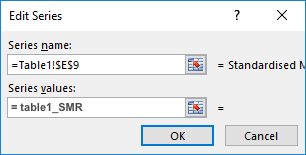
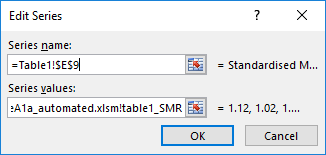
fix screenshot and typo for chart auto-update

diff --git a/docs/charts-auto-update.html b/docs/charts-auto-update.html
@@ -131,11 +131,11 @@
 </ol>
 <p><img src="images/chartau-03-newname.png" style="display: block; margin: auto;" />  </p>
 <ol start="4" style="list-style-type: decimal">
-<li>Name and add reference forumla. In this example, we’ve named it “ChartData” and the formula is <code>=OFFSET(Table1!$E$11, 0, 0, H5, 1)</code>.</li>
+<li>Name and add reference forumla. In this example, we’ve named it “table1_SMR” and the formula is <code>=OFFSET(Table1!$E$11, 0, 0, Sheet1!$B$1, 1)</code>.</li>
 </ol>
 <p><img src="images/chartau-04-createname.PNG" style="display: block; margin: auto;" />  </p>
 <ol start="5" style="list-style-type: decimal">
-<li>Finally, select the chart and right-click, click on “Select Data…”, and then click on “Edit” for the series values. Add the named function as the series value.</li>
+<li>Finally, select the chart and right-click, click on “Select Data…”, and then click on “Edit” for the series values. Add the named function as the series value, <code>=HSMR_TableA1a_automated.xlsm!table1_SMR</code>.</li>
 </ol>
 <p><img src="images/chartau-05-editseries.PNG" style="display: block; margin: auto;" />  </p>
 <p>These steps should then be repeated for the X-Axis values, and once for each line within your chart. After completing this, the charts should be automatically updated with each new quarter’s data that is added.</p>
